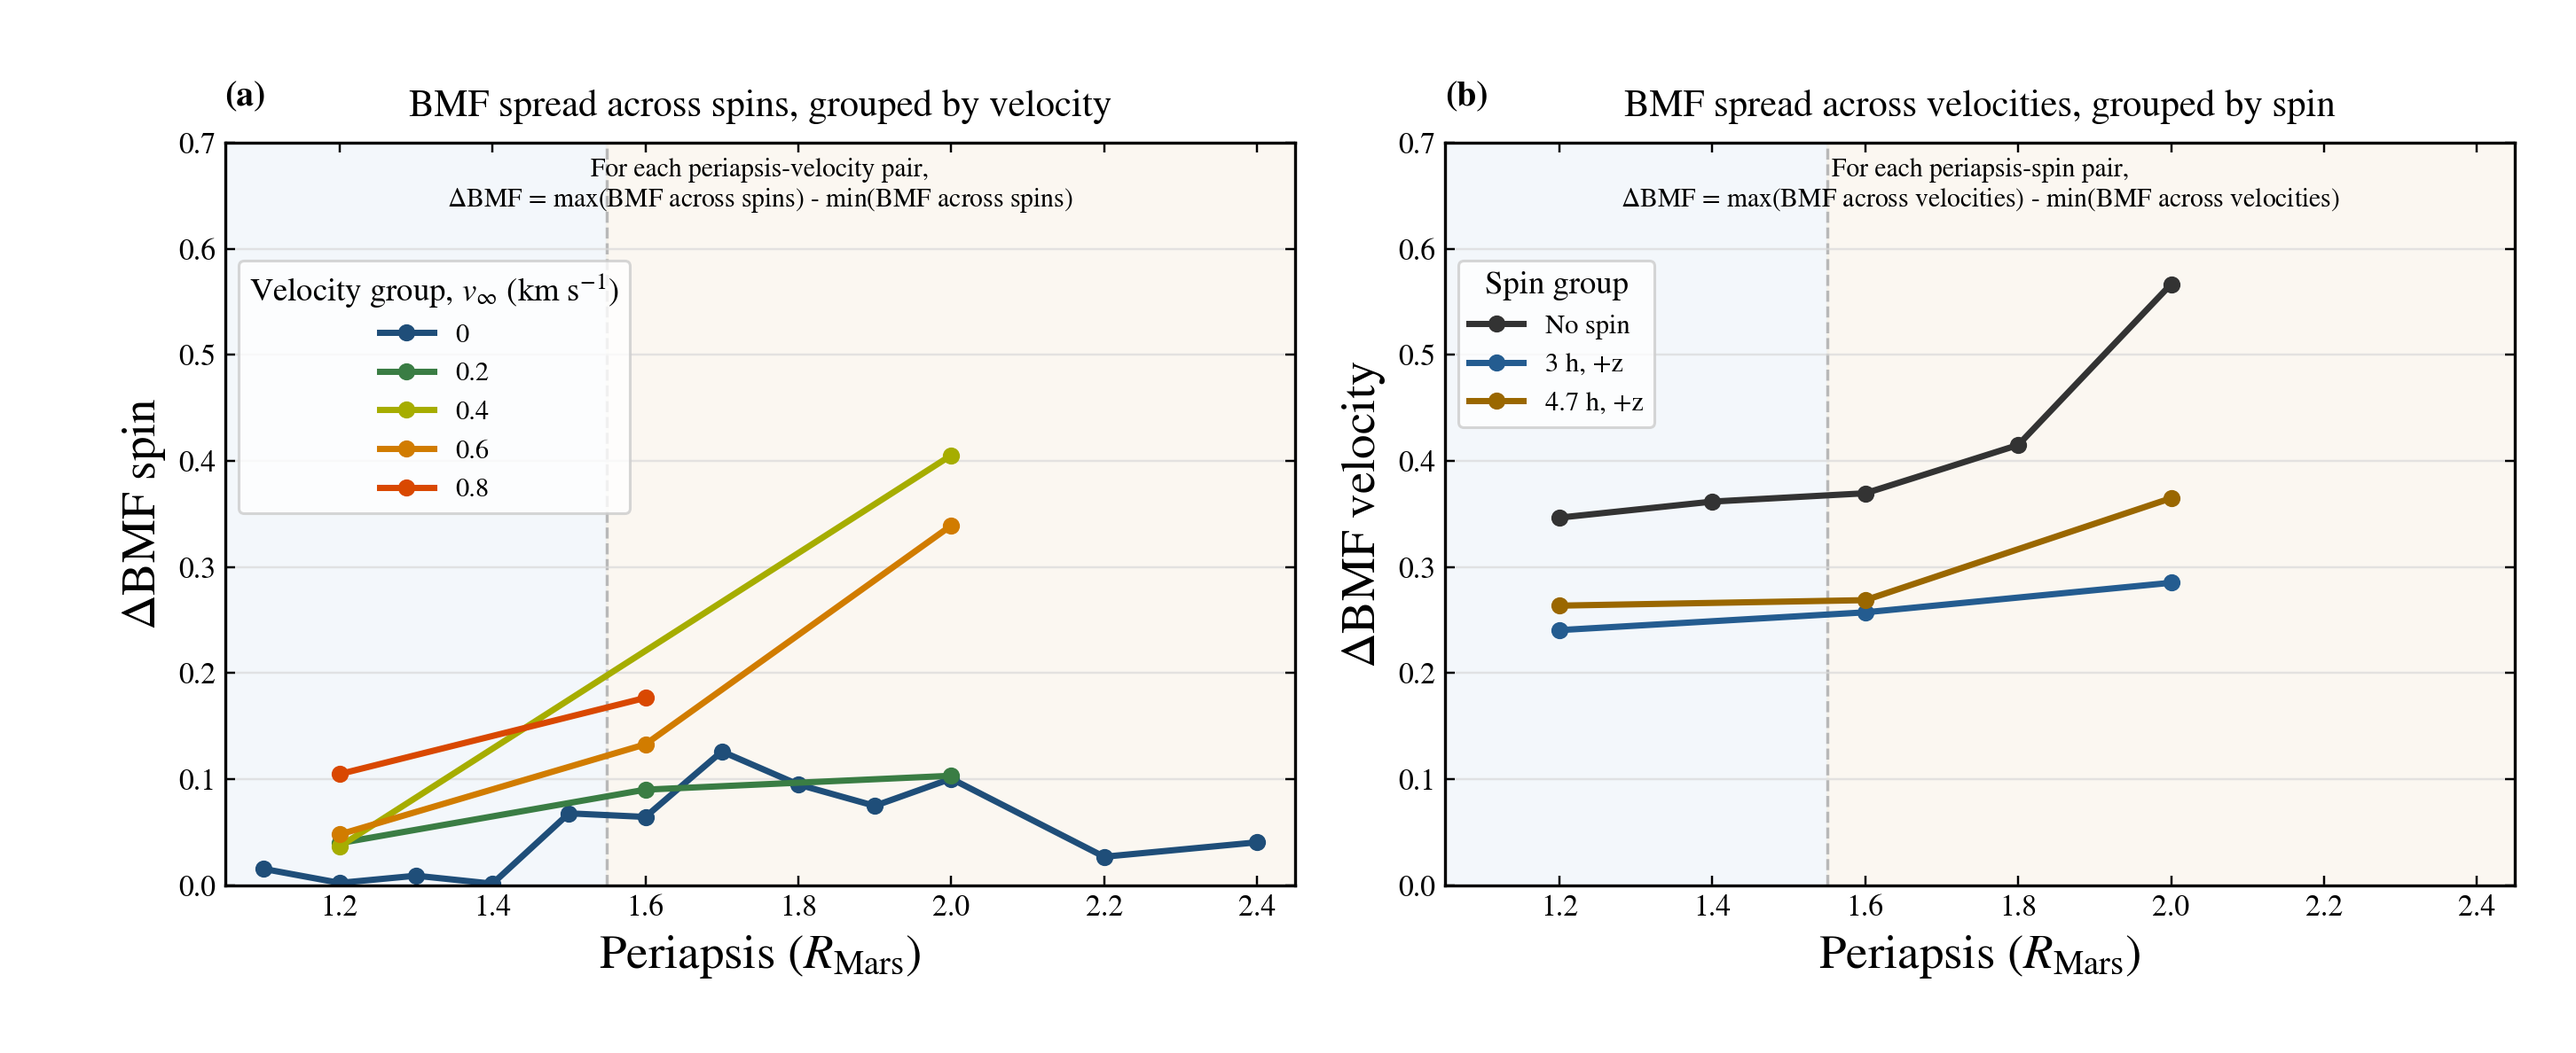
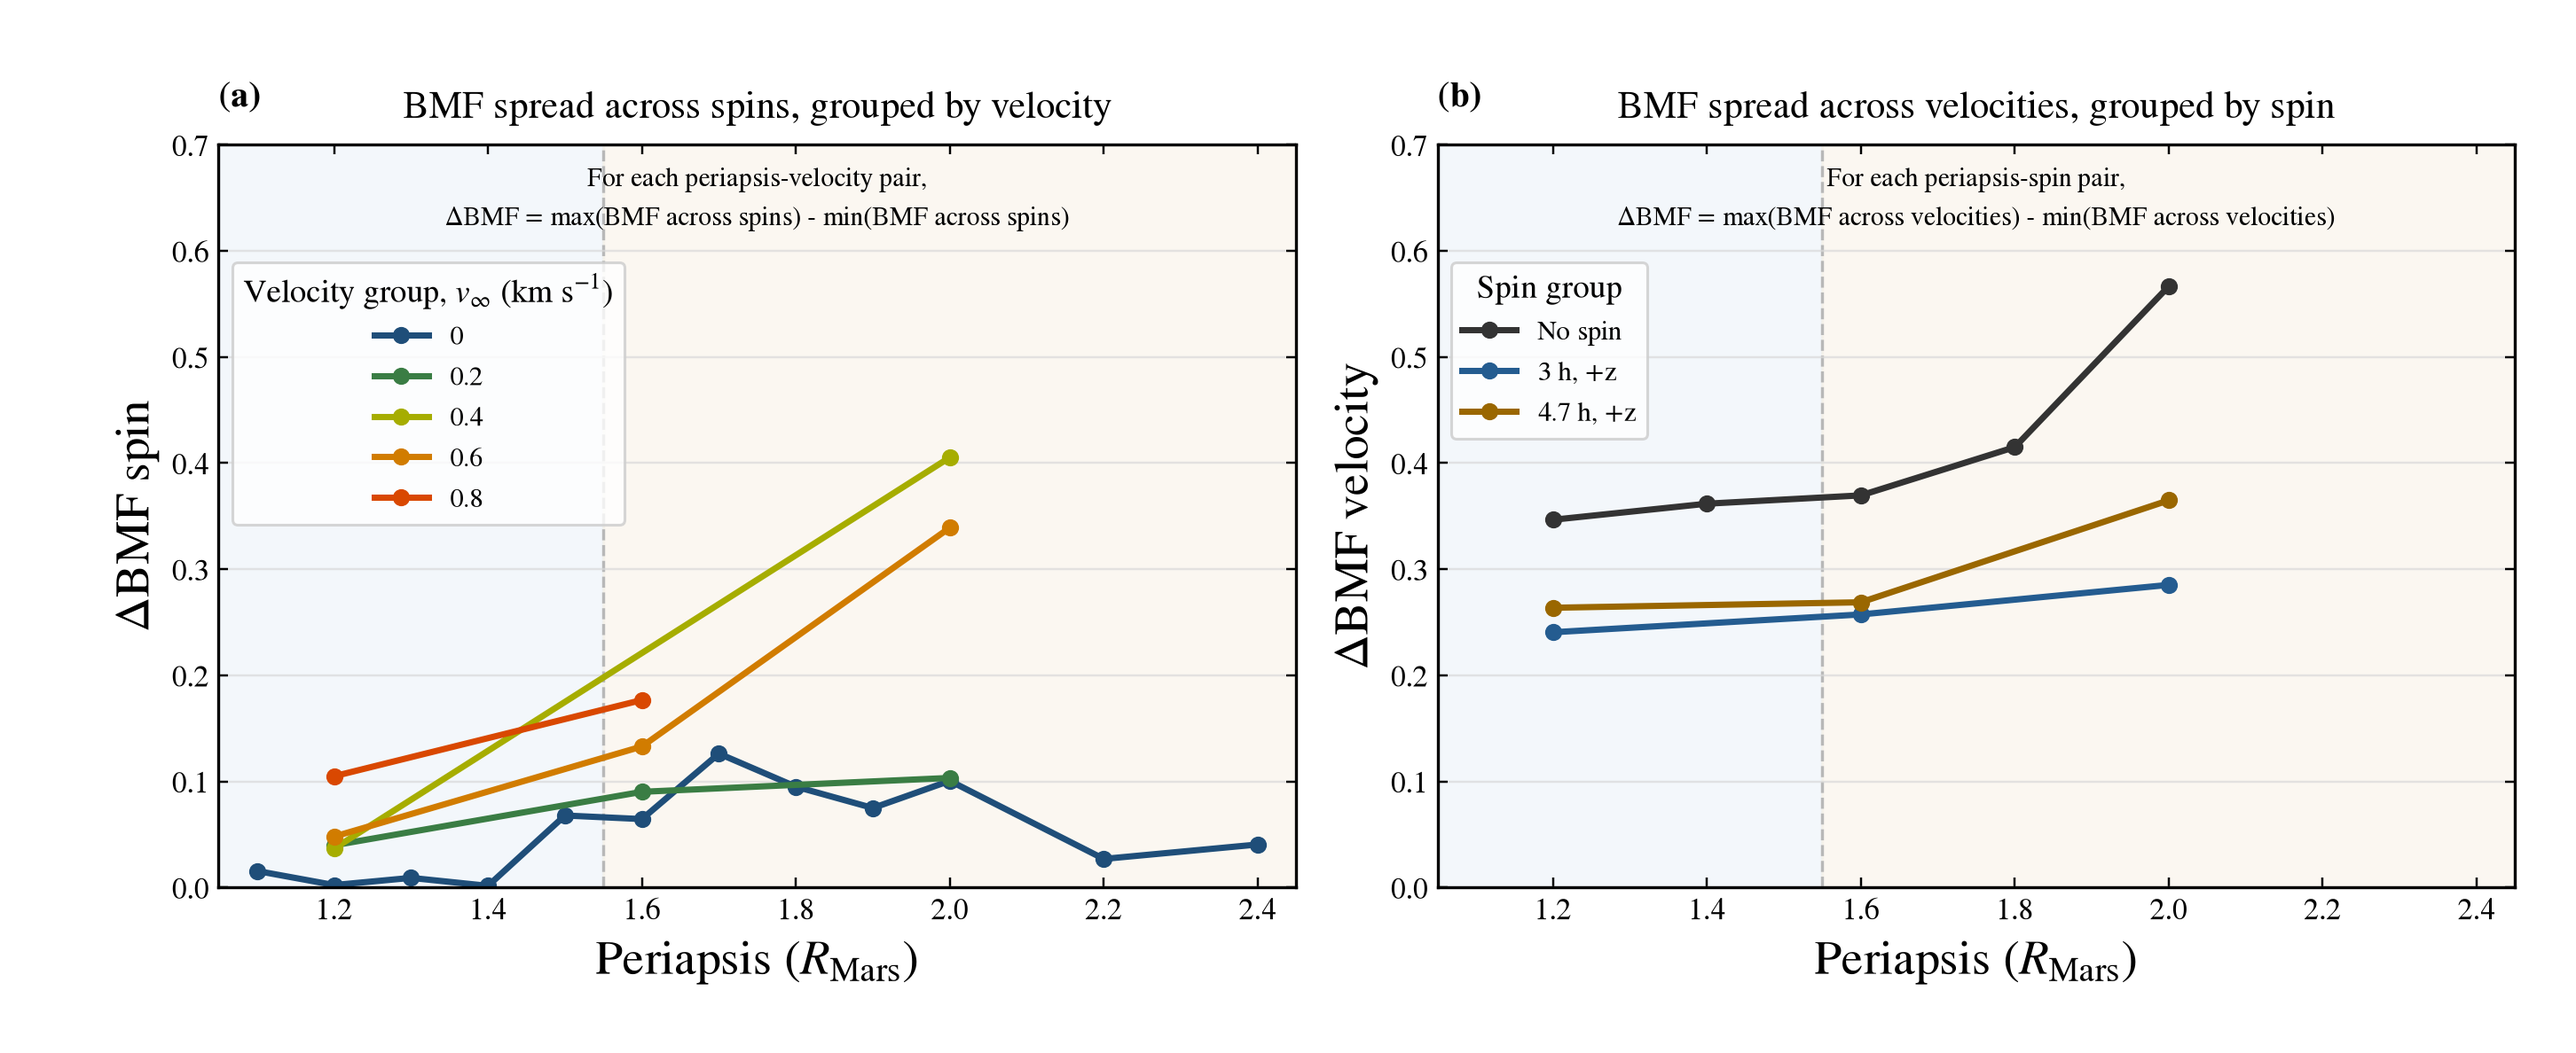
refractor: pipeline configuration

diff --git a/report-table-figure/figures/figure4_build.py b/report-table-figure/figures/figure4_build.py
@@ -2,14 +2,23 @@ from __future__ import annotations
 
 import argparse
 import csv
+import os
 from collections import defaultdict
 from pathlib import Path
 
+os.environ.setdefault("MPLCONFIGDIR", "/tmp/mplconfig")
+
+import matplotlib
+
+matplotlib.use("Agg")
 import matplotlib.pyplot as plt
 from matplotlib.lines import Line2D
 
 
 SCRIPT_DIR = Path(__file__).resolve().parent
+ROOT = SCRIPT_DIR.parents[1]
+OUTPUT_ROOT_ENV = os.environ.get("PIPELINE_OUTPUT_ROOT")
+OUTPUT_BASE = Path(OUTPUT_ROOT_ENV).resolve() if OUTPUT_ROOT_ENV else ROOT
 YMAX_OVERRIDE: float | None = 0.7
 SPIN_ORDER = ("no spin", "3h z", "4.7h z")
 SPIN_LABELS = {
@@ -41,7 +50,7 @@ def parse_args() -> argparse.Namespace:
     )
     parser.add_argument(
         "--png-out",
-        default=str(SCRIPT_DIR / "fiugure4_used_in_report.png"),
+        default=str(OUTPUT_BASE / "report-table-figure" / "figures" / "figure4_used_in_report.png"),
         help="PNG output path.",
     )
     return parser.parse_args()

diff --git a/report-table-figure/figures/tableA2_details_build.py b/report-table-figure/figures/tableA2_details_build.py
@@ -15,6 +15,8 @@ import numpy as np
 import pandas as pd
 
 ROOT = Path(__file__).resolve().parents[2]
+OUTPUT_ROOT_ENV = os.environ.get("PIPELINE_OUTPUT_ROOT")
+OUTPUT_BASE = Path(OUTPUT_ROOT_ENV).resolve() if OUTPUT_ROOT_ENV else ROOT
 if str(ROOT) not in sys.path:
     sys.path.insert(0, str(ROOT))
 
@@ -28,8 +30,8 @@ from ml.model_training_scripts.helper_functions_ml import (
 
 
 SOURCE_PATH = ROOT / "extraction-outputs" / "tables" / "bound_outcomes.csv"
-FIG_PATH = ROOT / "report-table-figure" / "figures" / "figureA1_used_in_report.png"
-FOLDS_PATH = ROOT / "ml" / "trainingartifacts" / "tuned_physics_gradient_boosting" / "grouped_cv_fold_assignments.csv"
+FIG_PATH = OUTPUT_BASE / "report-table-figure" / "figures" / "tableA2_details.png"
+FOLDS_PATH = OUTPUT_BASE / "ml" / "trainingartifacts" / "derived_gb" / "grouped_cv_fold_assignments.csv"
 
 RAW_FEATURE_COLUMNS = [
     "mass_log10_kg",

diff --git a/report-table-figure/figures/figure5_build.py b/report-table-figure/figures/figure5_build.py
@@ -18,10 +18,11 @@ import pandas as pd
 
 
 ROOT = Path(__file__).resolve().parents[2]
-SCRIPT_DIR = Path(__file__).resolve().parent
+OUTPUT_ROOT_ENV = os.environ.get("PIPELINE_OUTPUT_ROOT")
+OUTPUT_BASE = Path(OUTPUT_ROOT_ENV).resolve() if OUTPUT_ROOT_ENV else ROOT
 BOUND_SOURCE = ROOT / "extraction-outputs" / "tables" / "bound_outcomes.csv"
-PREDICTIONS_SOURCE = ROOT / "report-table-figure" / "tables" / "tuned_gb_oof_predictions.csv"
-OUTPUT_PATH = SCRIPT_DIR / "figure5_used_in_report.png"
+PREDICTIONS_SOURCE = OUTPUT_BASE / "report-table-figure" / "tables" / "tuned_gb_oof_predictions.csv"
+OUTPUT_PATH = OUTPUT_BASE / "report-table-figure" / "figures" / "figure5_used_in_report.png"
 
 NO_DATA_COLOR = "#CFCFCF"
 SUPPORT_BOUNDS = [0, 1, 5, 10, 25, 50, 100, 201]
